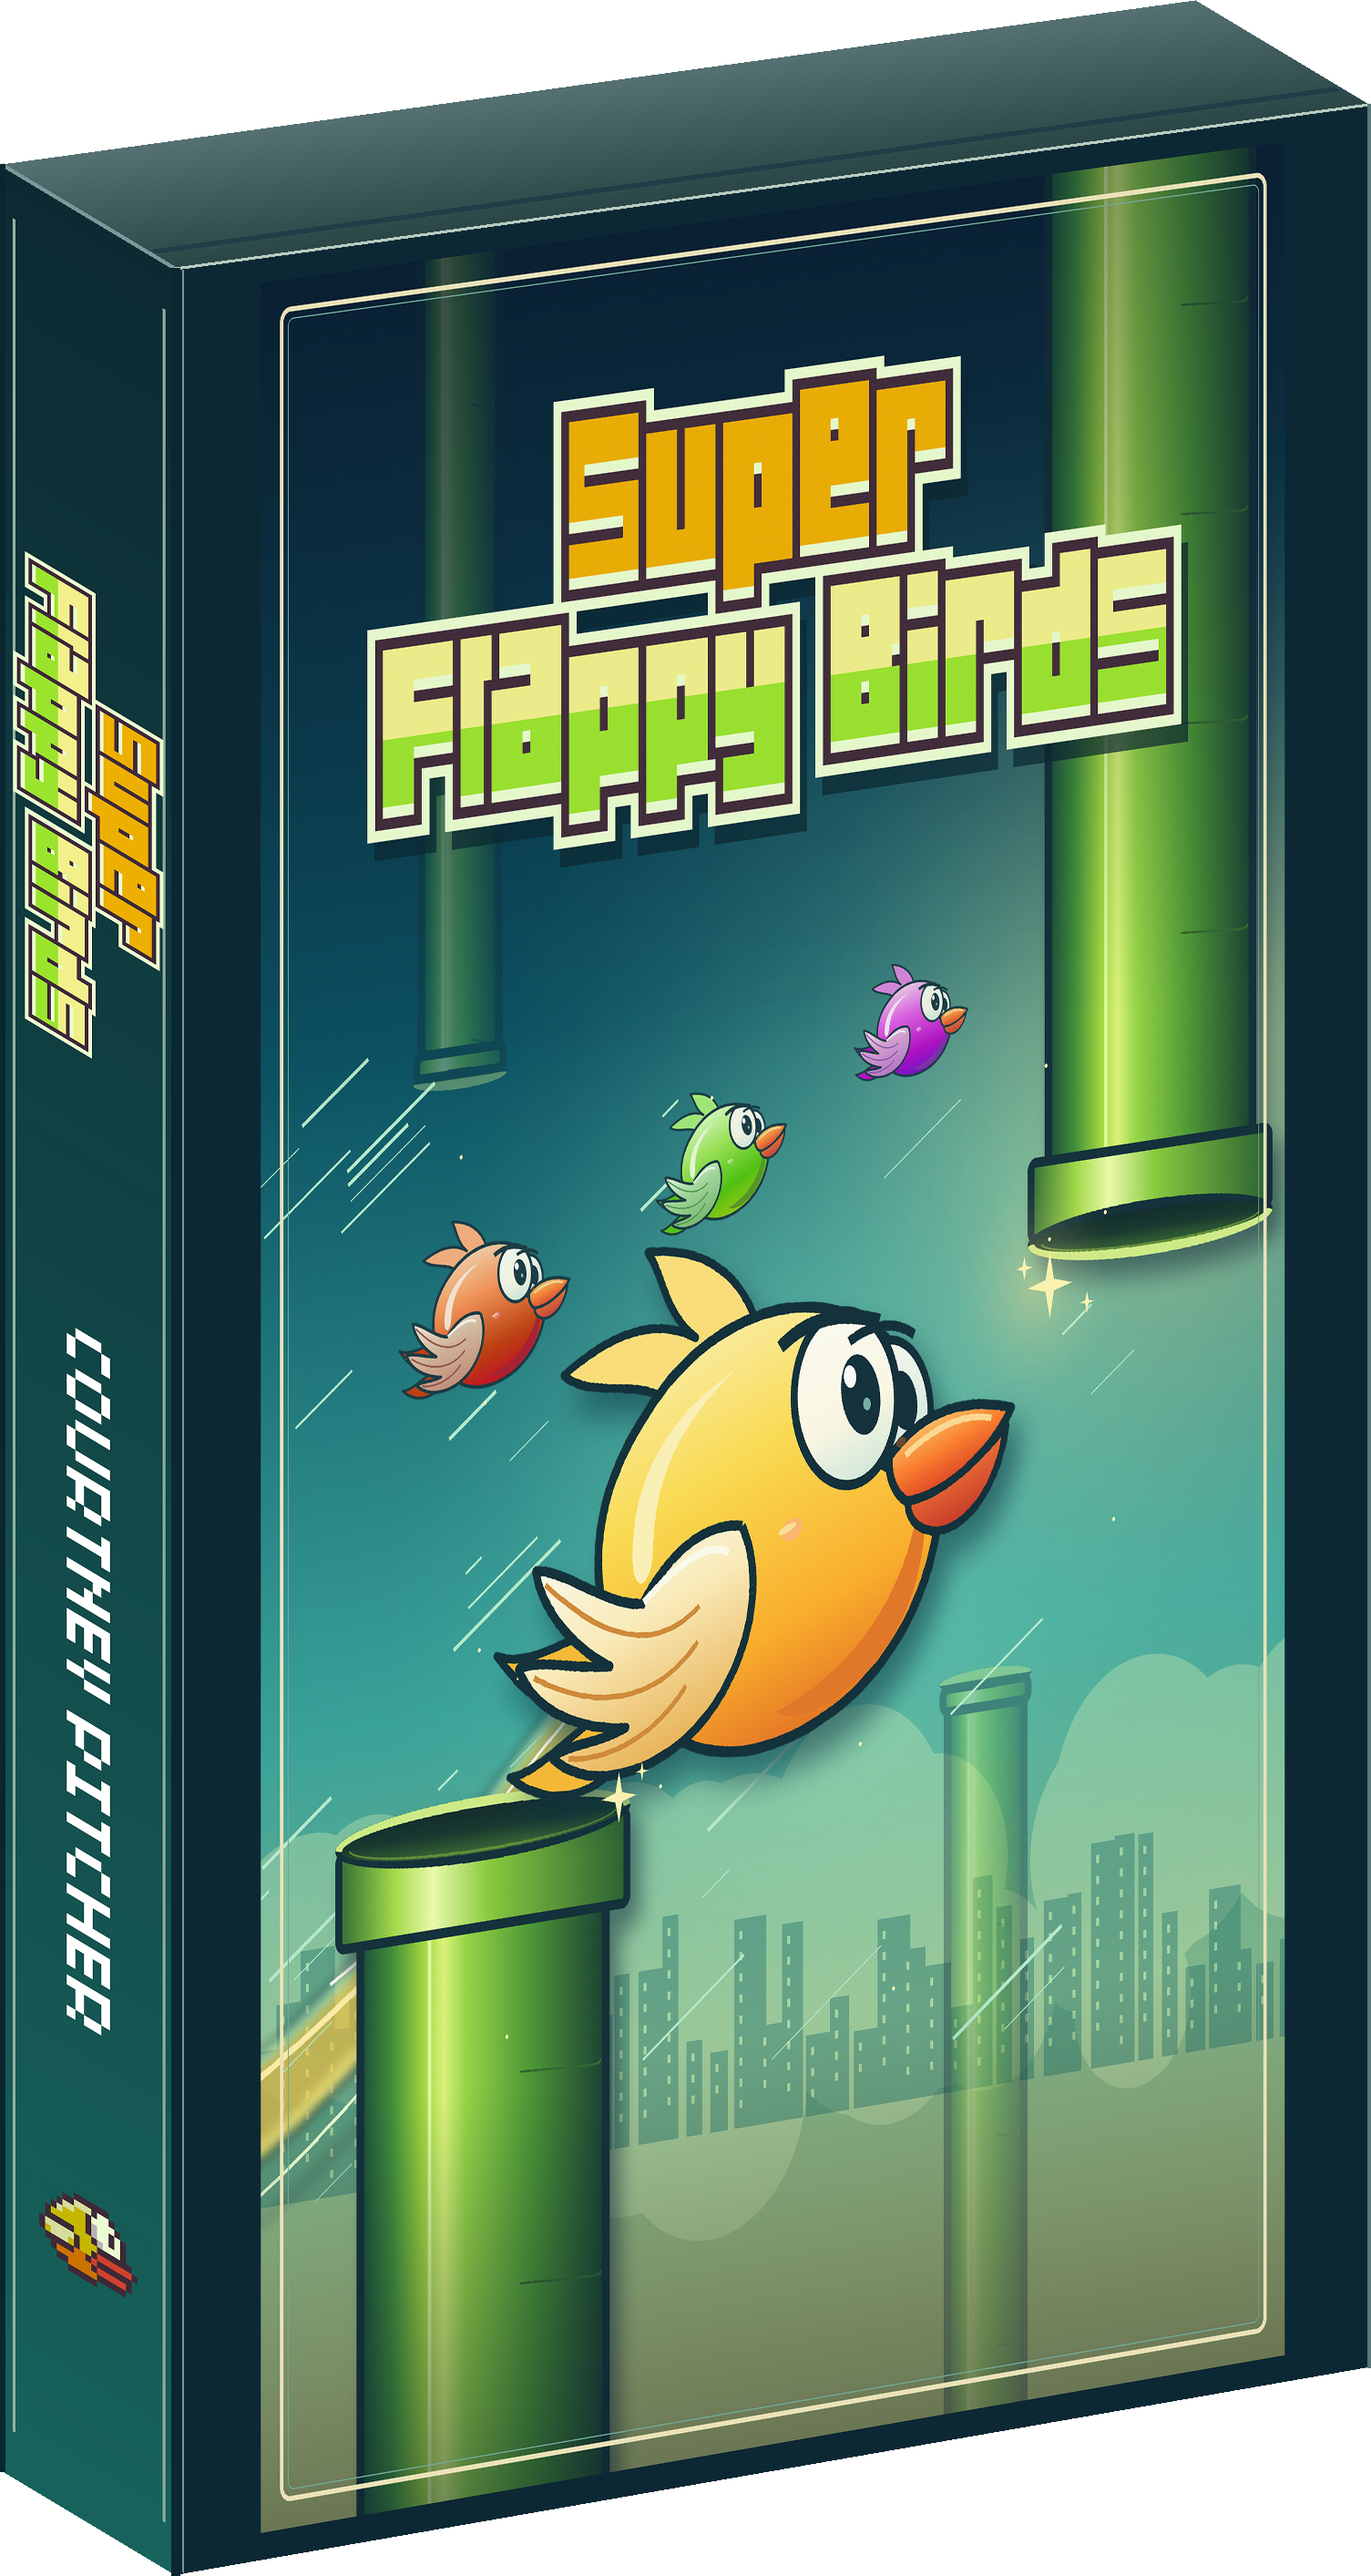
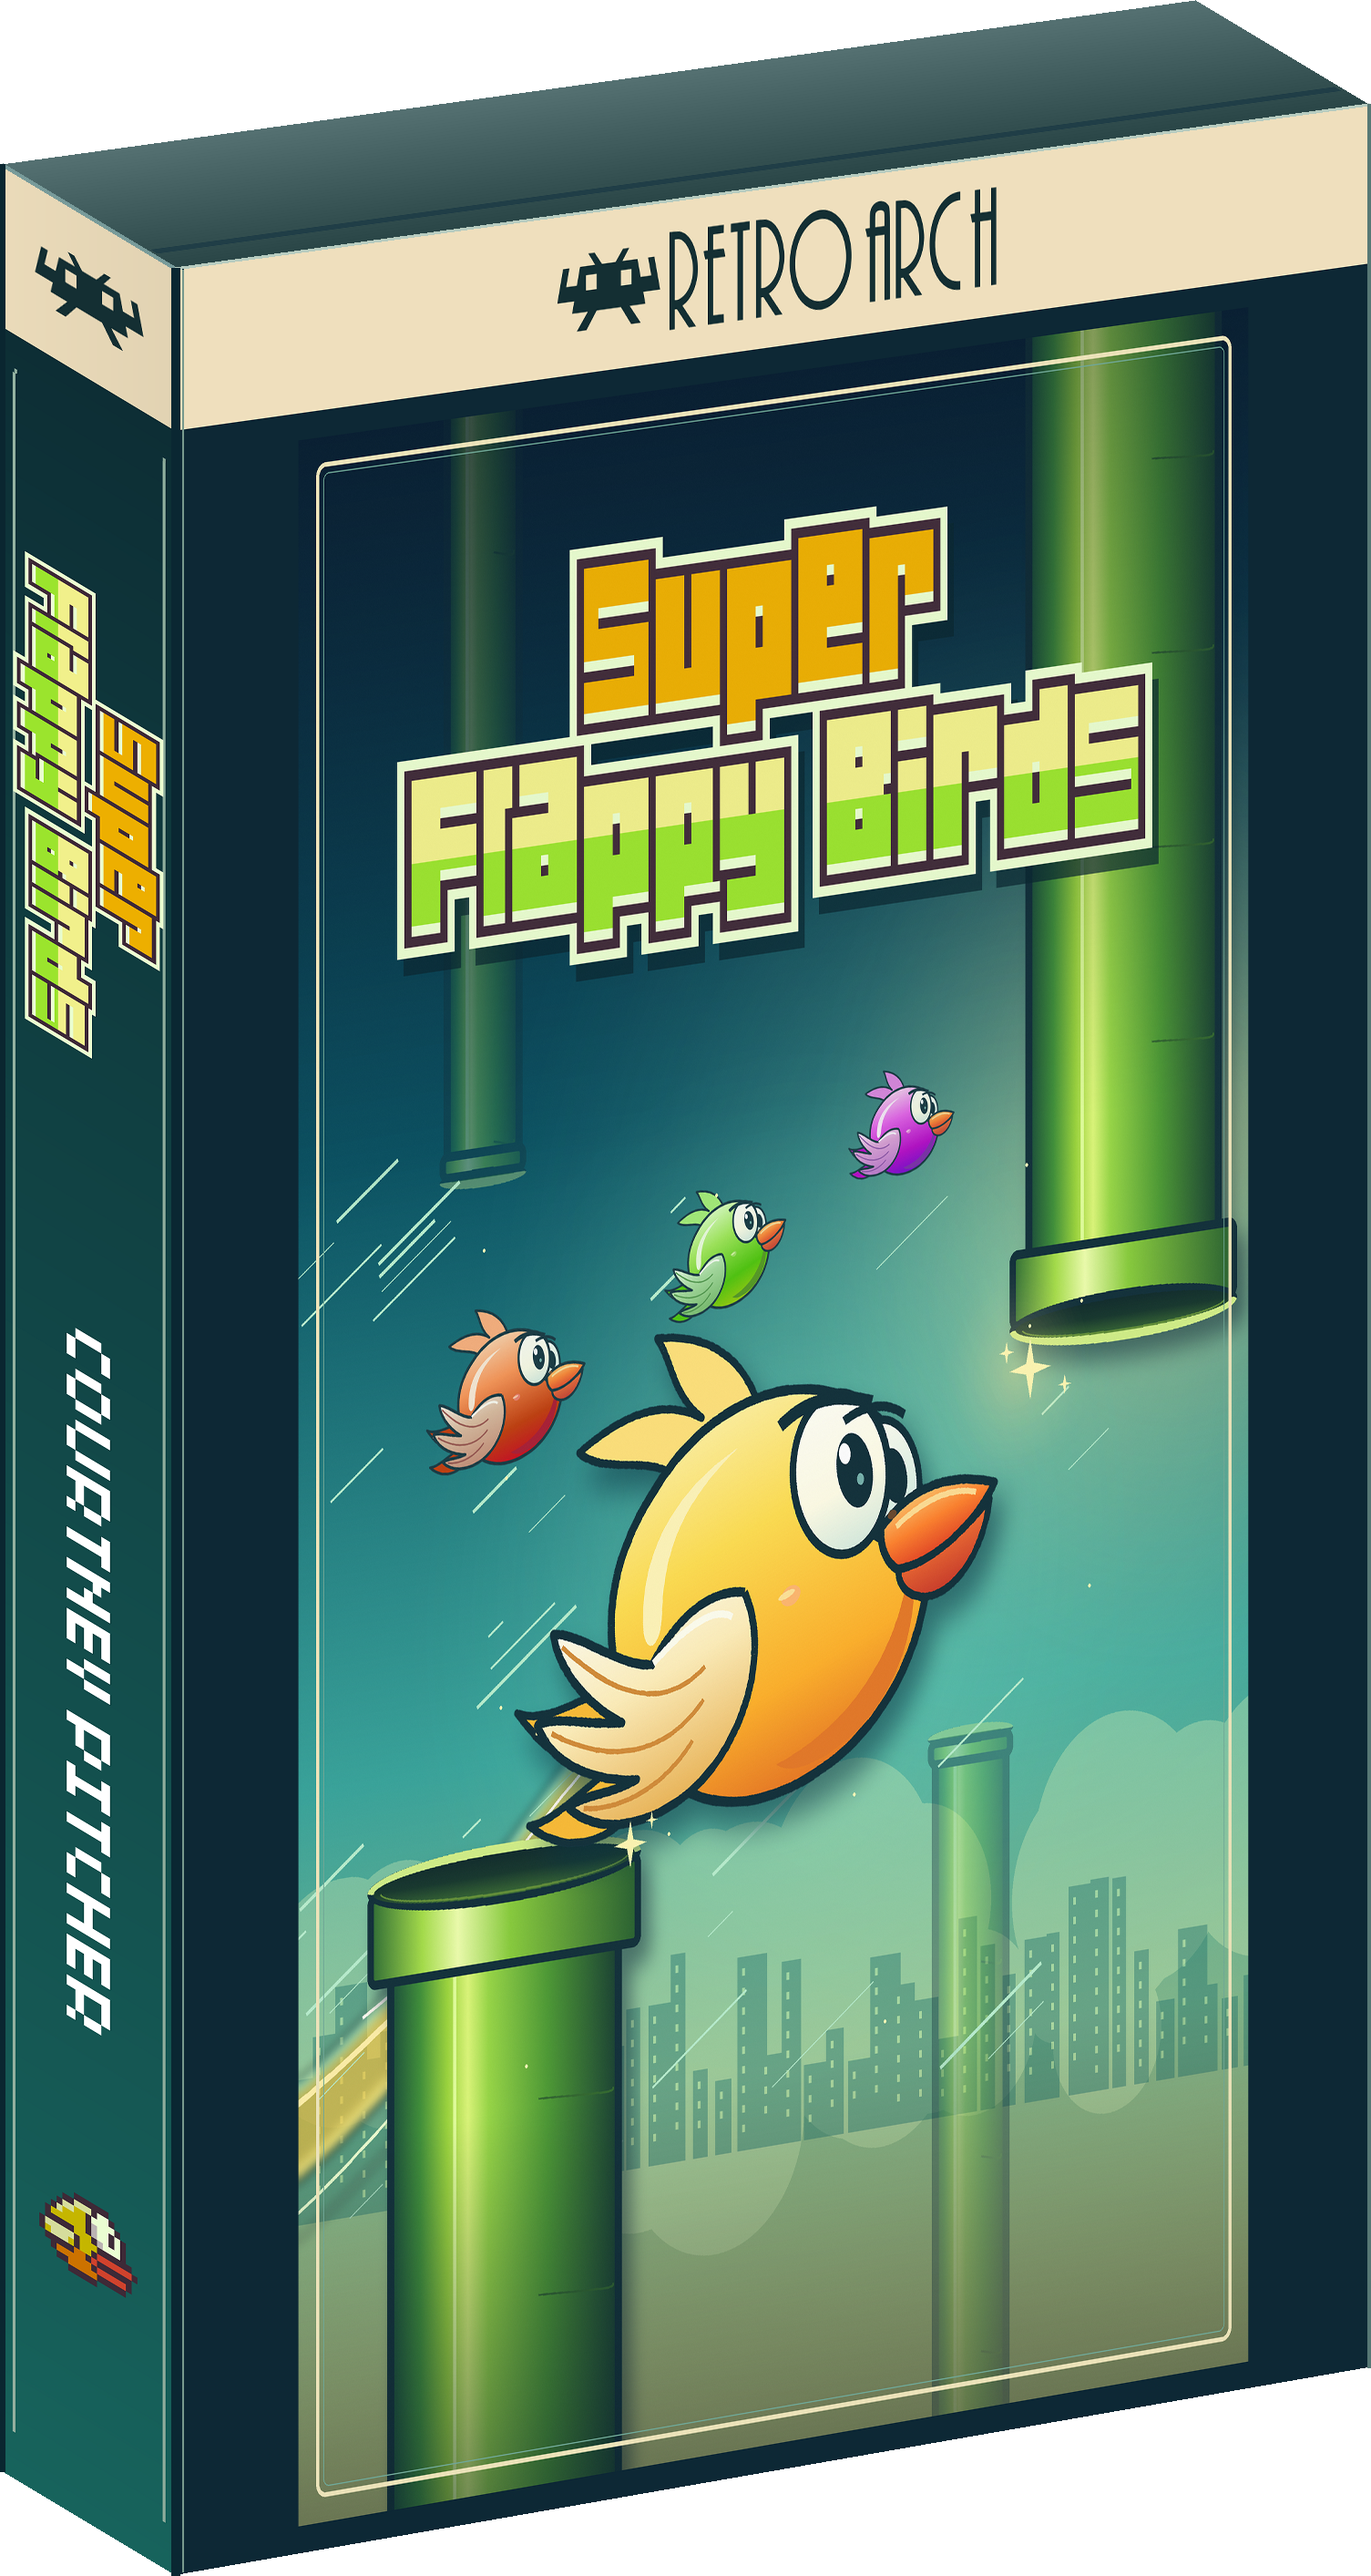
Add RetroArch branding to the Super Flappy Birds box

diff --git a/.artwork/README.md b/.artwork/README.md
@@ -7,6 +7,8 @@ The [cover](cover.png), [box front](box-front.png), [back](box-back.png),
 render resolution. The [box texture](box-texture.png) joins the back, spine
 and front panels at full resolution.
 
+The cream band on the box carries the RetroArch logo. [Editable SVG](../planning/scraper_retroarch.svg) · [Original invader](https://github.com/libretro/RetroArch/blob/d58394b4e62a01c02695616abe38bbd5e5e07847/media/retroarch-vector_invader-only.svg) · [Original lettering](https://github.com/libretro/RetroArch/blob/d58394b4e62a01c02695616abe38bbd5e5e07847/media/retroarch_text.svg)
+
 The [logo](logo.png) and [creator credit](credit-courtney-pitcher.png) preserve
 the title-screen lettering at its native pixel size. The [bird icon](bird-icon.svg)
 is a scalable SVG using `currentColor`.
